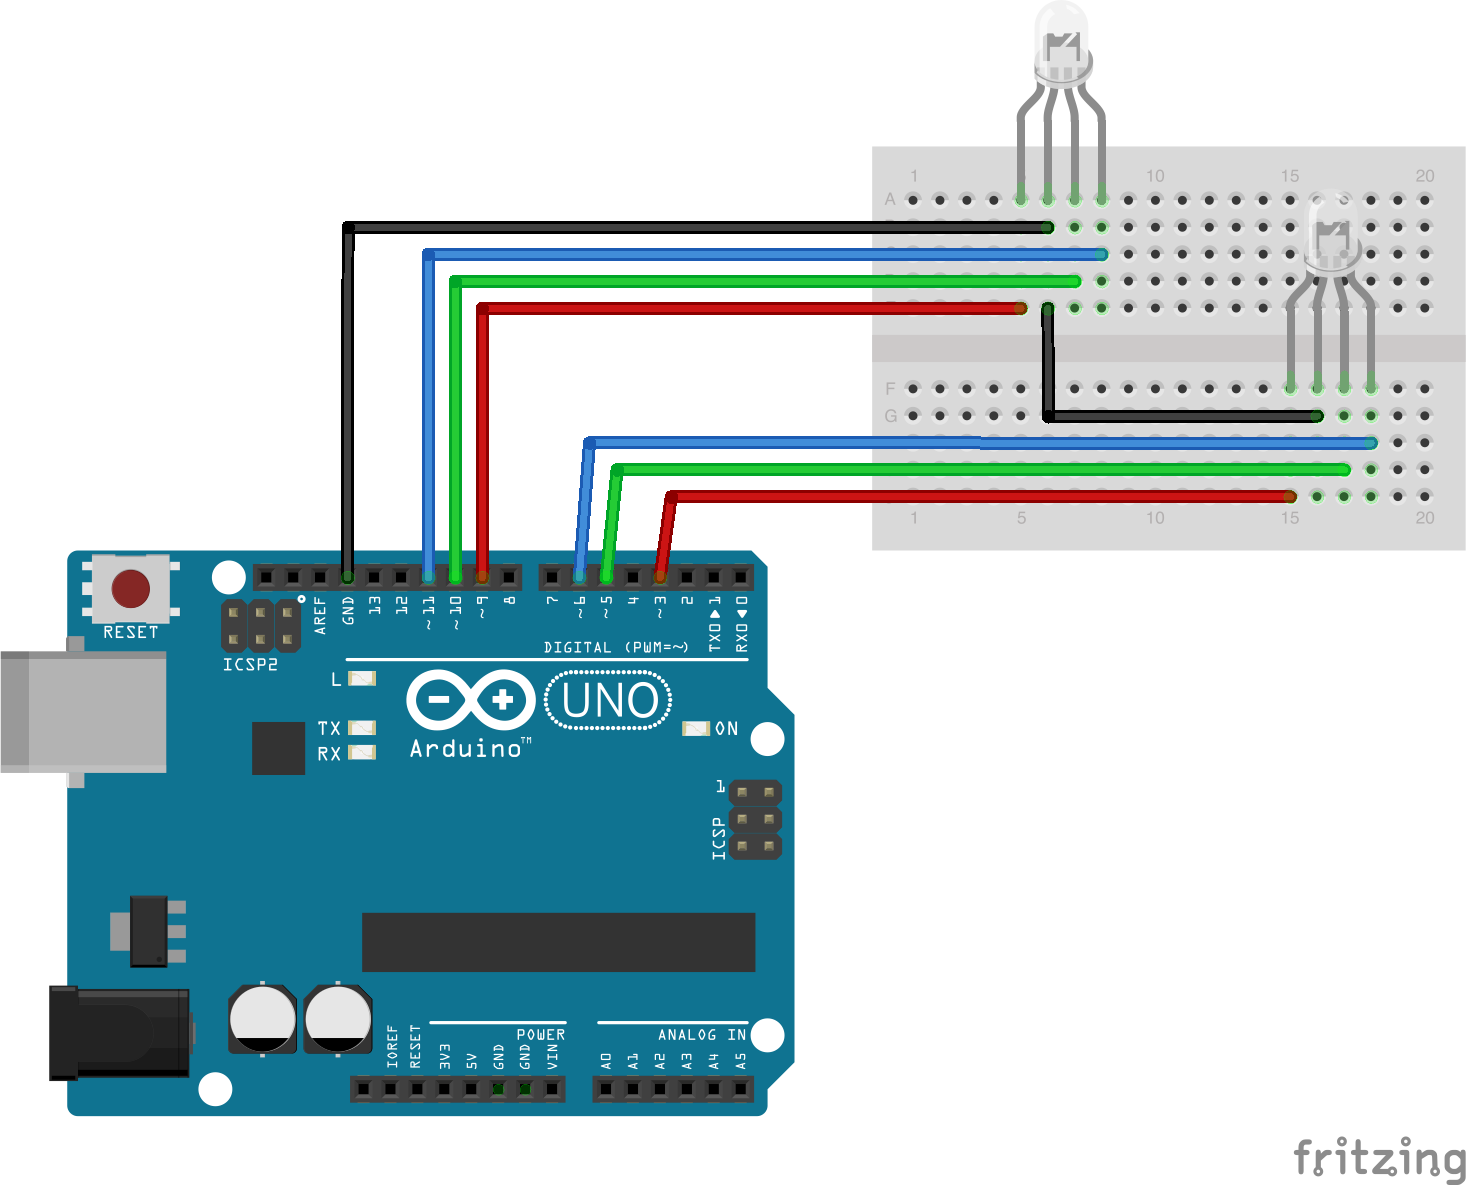
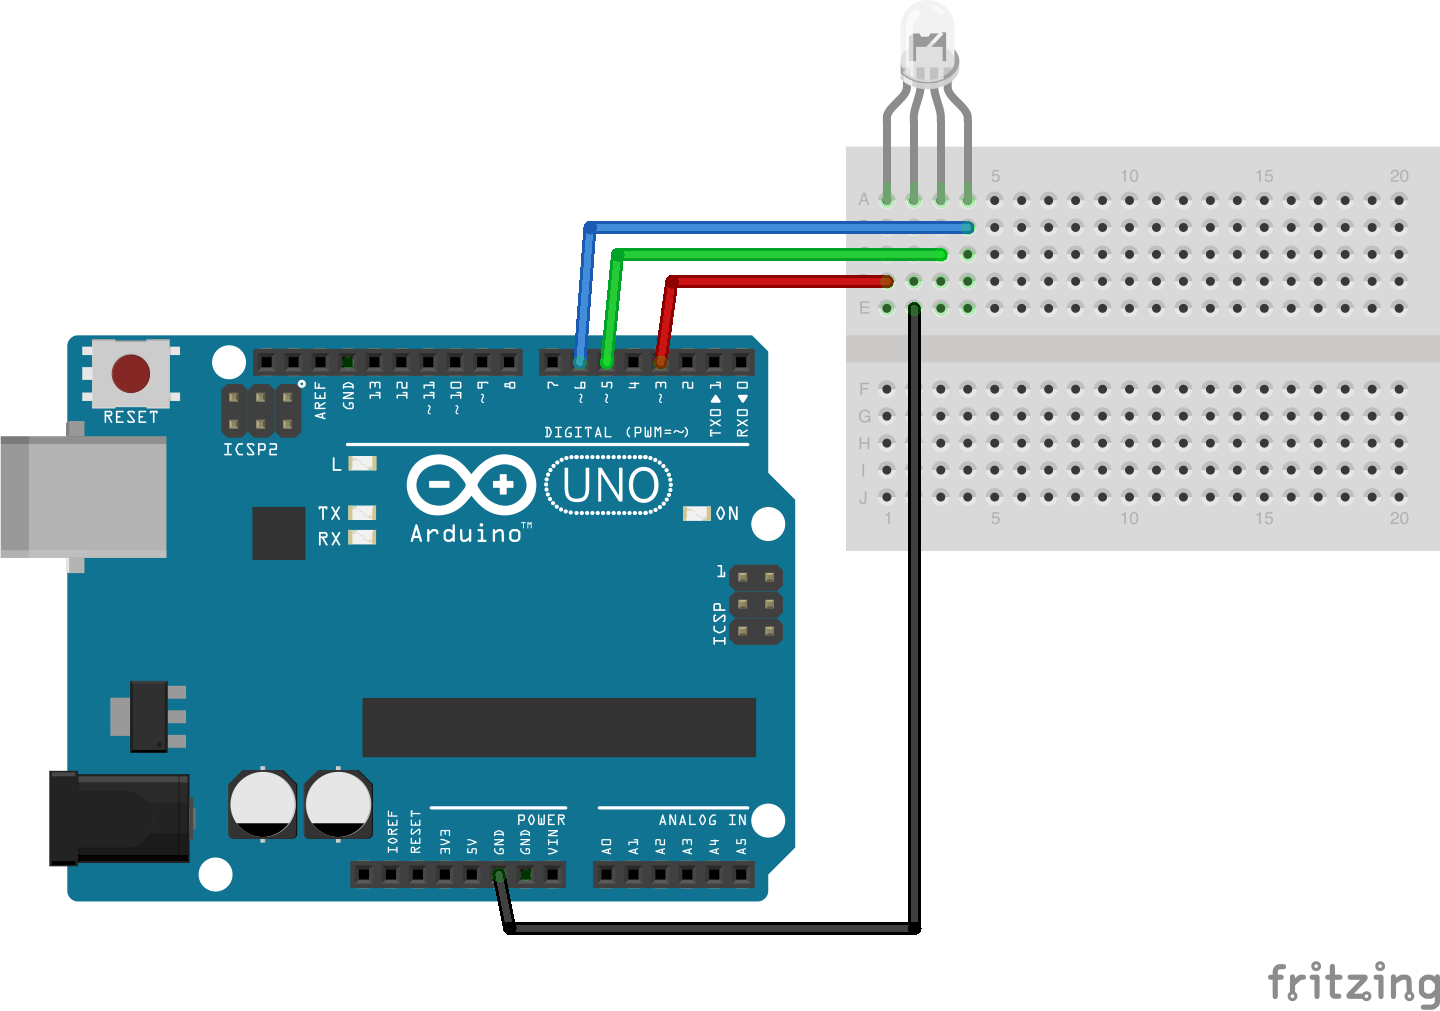
Updated led examples

diff --git a/eg/led-capabilities.js b/eg/led-capabilities.js
@@ -1,0 +1,104 @@
+var five = require("../lib/johnny-five.js"),
+  temporal = require("temporal"),
+  board = new five.Board();
+
+board.on("ready", function() {
+
+  // Defaults to pin 11 (must be PWM)
+  var led = new five.Led(process.argv[2] || 11);
+
+  this.repl.inject({
+    led: led
+  });
+
+  temporal.queue([{
+    delay: 0,
+    task: function() {
+      // on()
+      //
+      // Turns the led on
+      led.on();
+      console.log("led on");
+    }
+  }, {
+    delay: 2000,
+    task: function() {
+      // off()
+      //
+      // Turns the led off
+      led.off();
+      console.log("led off");
+    }
+  }, {
+    delay: 1000,
+    task: function() {
+      // pulse( rate )
+      //
+      // Pulse the led (fade on/off)
+      // pinMode will be changed to PWM automatically
+      led.pulse(2000);
+      console.log("led pulse");
+    }
+  }, {
+    delay: 6000,
+    task: function() {
+      // strobe( rate )
+      //
+      // Strobe the led (on/off)
+      led.strobe(500);
+      console.log("led strobe");
+    }
+  }, {
+    delay: 5000,
+    task: function() {
+      // stop()
+      //
+      // Stop the pulse
+      led.stop();
+      console.log("led stop");
+
+      // If you want to make sure it's off
+      // in case it stopped it while on
+      led.off();
+    }
+  }, {
+    delay: 500,
+    task: function() {
+      // fadeIn()
+      //
+      // Fade in the led
+      // pinMode will be changed to PWM automatically
+      led.fadeIn(3000);
+      console.log("led fadeIn");
+    }
+  }, {
+    delay: 5000,
+    task: function() {
+      // fadeOut()
+      //
+      // Fade out the led
+      // pinMode will be changed to PWM automatically
+      led.fadeOut(3000);
+      console.log("led fadeOut");
+    }
+  }, {
+    delay: 5000,
+    task: function() {
+      // brightness ()
+      //
+      // set analog brightness (0-255)
+      led.brightness(5);
+      console.log("led brightness");
+    }
+  }]);
+
+
+});
+
+// @markdown
+// To make use of `Led` methods like `fade`, `pulse`, `animate`,
+// you'll need to wire an LED to a PWM pin.
+// If you use a different pin, make sure to run the script with the correct pin number:
+//
+// `node eg/led.js [pinNumber]`
+// @markdown

diff --git a/eg/led-rgb.js b/eg/led-rgb.js
@@ -1,9 +1,11 @@
-var five = require("../lib/johnny-five.js");
+var five = require("../lib/johnny-five.js"),
+  keypress = require("keypress");
+
 
 five.Board().on("ready", function() {
-  var a = new five.Led.RGB([9, 10, 11]);
 
-  var b = new five.Led.RGB({
+  // Initialize the RGB LED
+  var led = new five.Led.RGB({
     pins: {
       red: 3,
       green: 5,
@@ -11,11 +13,49 @@ five.Board().on("ready", function() {
     }
   });
 
+  // RGB LED alternate constructor
+  // This will normalize an array of pins in [r, g, b]
+  // order to an object (like above) that's shaped like:
+  // {
+  //   red: r,
+  //   green: g,
+  //   blue: b
+  // }
+  //var led = new five.Led.RGB([3,5,6]);
+
+  // Add led to REPL (optional)
   this.repl.inject({
-    a: a,
-    b: b
+    led: led
   });
 
-  a.pulse();
-  b.pulse();
+  // Turn it on and set the initial color
+  led.on();
+  led.color("#FF0000");
+
+  // Listen for user input to change the RGB color
+  process.stdin.resume();
+  process.stdin.setEncoding("utf8");
+  process.stdin.setRawMode(true);
+
+  var keymap = {
+    r: "#FF0000", // red
+    g: "#00FF00", // green
+    b: "#0000FF", // blue
+    w: "#FFFFFF"  // white
+  };
+
+  process.stdin.on("keypress", function(ch, key) {
+
+    if (!key) {
+      return;
+    }
+
+    if (keymap[key.name]) {
+      led.color(keymap[key.name]);
+    } else {
+      led.off();
+    }
+
+  });
+
 });

diff --git a/eg/led-array.js b/eg/led-array.js
@@ -1,0 +1,19 @@
+var five = require("../lib/johnny-five.js");
+
+five.Board().on("ready", function() {
+  var array = new five.Led.Array([3,5,6]);
+
+  this.repl.inject({
+    array: array
+  });
+
+  array.pulse();
+});
+
+// @markdown
+//
+// Control multiple LEDs at once by creating an Led.Array.
+// All must be on PWM pins if you want to use methods such
+// as pulse() or fade()
+//
+// @markdown

diff --git a/eg/led.js b/eg/led.js
@@ -8,6 +8,8 @@ board.on("ready", function() {
   this.repl.inject({
     led: led
   });
+
+  led.blink();  
 });
 
 // @markdown

diff --git a/README.md b/README.md
@@ -203,14 +203,11 @@ board.on("ready", function() {
 - [Laser](https://github.com/rwldrn/johnny-five/blob/master/docs/laser.md)
 - [Led](https://github.com/rwldrn/johnny-five/blob/master/docs/led.md)
 - [Led Matrix](https://github.com/rwldrn/johnny-five/blob/master/docs/led-matrix.md)
-- [Led Fade](https://github.com/rwldrn/johnny-five/blob/master/docs/led-fade.md)
+- [Led Capabilities](https://github.com/rwldrn/johnny-five/blob/master/docs/led-capabilities.md)
 - [Led Fade Callback](https://github.com/rwldrn/johnny-five/blob/master/docs/led-fade-callback.md)
-- [Led On Off](https://github.com/rwldrn/johnny-five/blob/master/docs/led-on-off.md)
-- [Led Pulse](https://github.com/rwldrn/johnny-five/blob/master/docs/led-pulse.md)
 - [Led Rgb](https://github.com/rwldrn/johnny-five/blob/master/docs/led-rgb.md)
 - [Led Rgb Anode](https://github.com/rwldrn/johnny-five/blob/master/docs/led-rgb-anode.md)
 - [Led Rainbow](https://github.com/rwldrn/johnny-five/blob/master/docs/led-rainbow.md)
-- [Led Strobe](https://github.com/rwldrn/johnny-five/blob/master/docs/led-strobe.md)
 - [Seven Segment](https://github.com/rwldrn/johnny-five/blob/master/docs/seven-segment.md)
 
 ### Magnetometer (Compass)
@@ -276,9 +273,9 @@ board.on("ready", function() {
 All contributions must adhere to the [Idiomatic.js Style Guide](https://github.com/rwldrn/idiomatic.js),
 by maintaining the existing coding style. Add unit tests for any new or changed functionality. Lint and test your code using [grunt](https://github.com/gruntjs/grunt).
 
-## Release History
-_(Nothing yet)_
 
 ## License
 Copyright (c) 2012, 2013, 2014 Rick Waldron <waldron.rick@gmail.com>
+Licensed under the MIT license.
+Copyright (c) 2014 The Johnny-Five Contributors
 Licensed under the MIT license.
